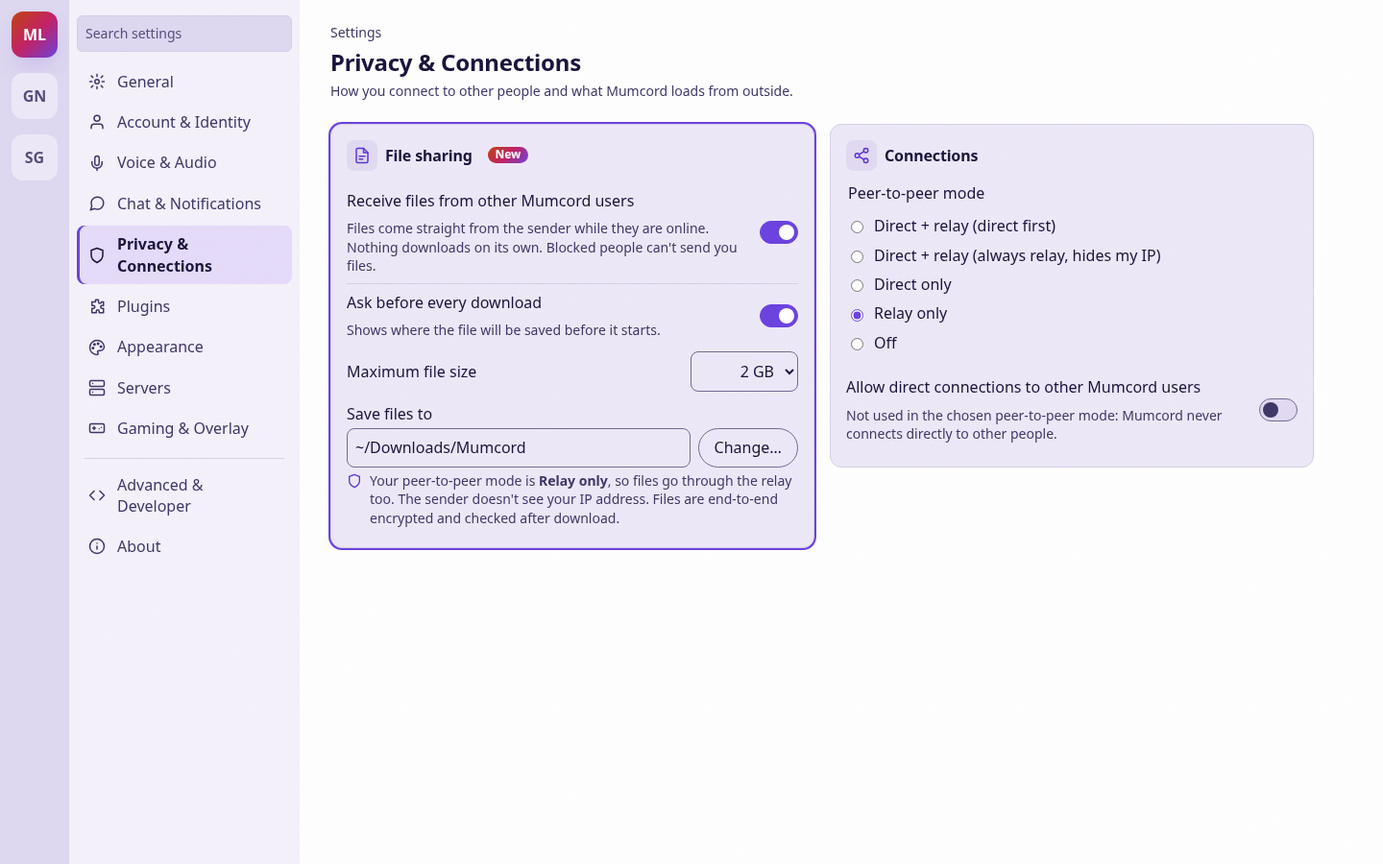
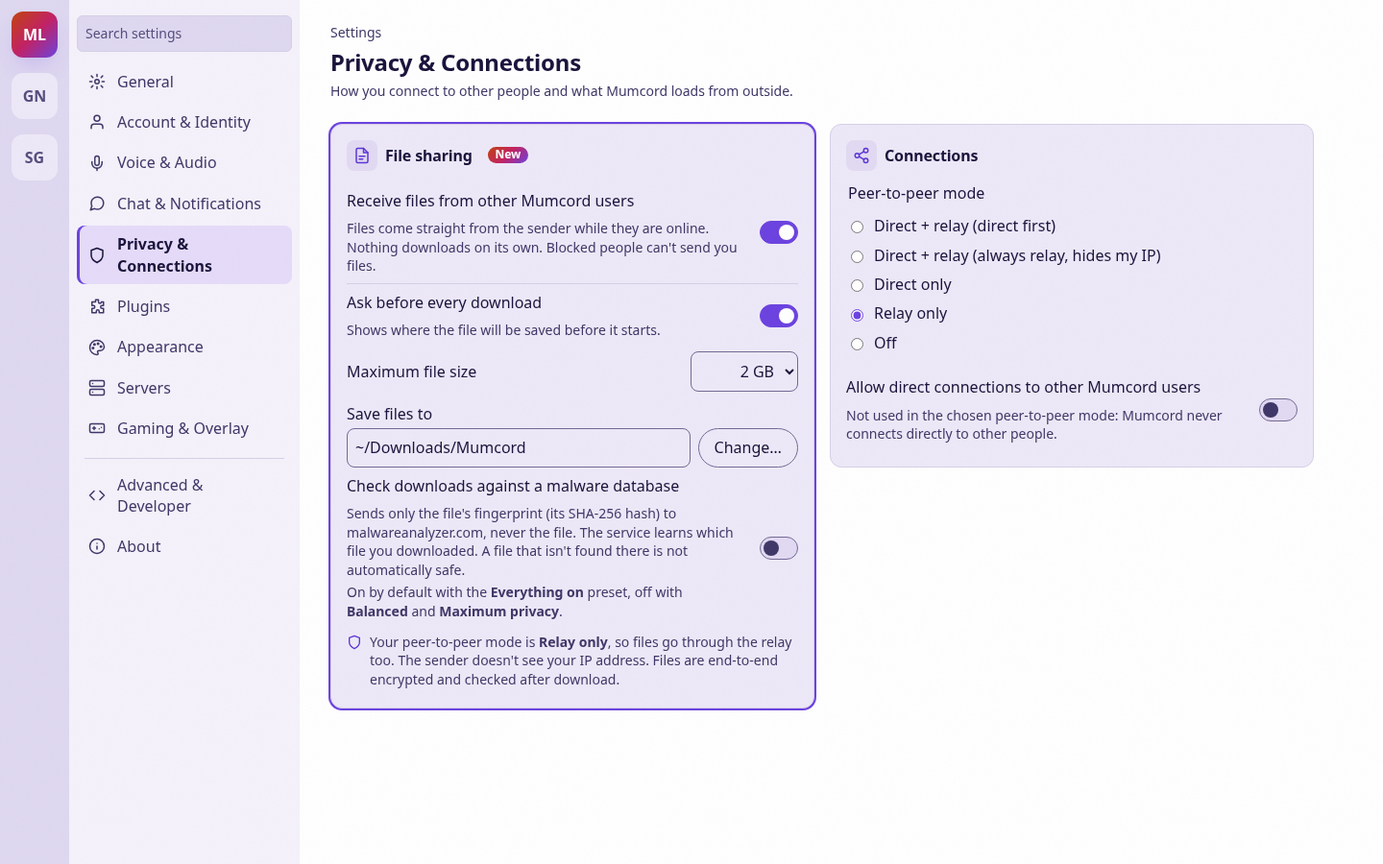
docs: add optional malware hash check to Epic 4.1 mockups
Settings gets a switch to look up a download's SHA-256 hash in a malware
database, off by default except with the Everything on preset. The done
card says "Not found in the malware database", and two new cards show
known malware (quarantined, Delete or Keep anyway) and an unavailable check.

Changed region(s): [[0.2188, 0.5289, 0.5938, 0.84]]

diff --git a/docs/mockups/epic-4.1/11-check-unavailable.html b/docs/mockups/epic-4.1/11-check-unavailable.html
@@ -1,0 +1,68 @@
+<!doctype html>
+<html lang="en" data-theme="dark">
+<head>
+<meta charset="utf-8">
+<meta name="viewport" content="width=device-width, initial-scale=1">
+<title>Malware check unavailable – Epic 4.1 mockup</title>
+<!-- Same fonts the app bundles via @fontsource (not installed for static mockups). -->
+<link rel="stylesheet" href="https://fonts.googleapis.com/css2?family=Bricolage+Grotesque:opsz,wght@12..96,200..800&family=Instrument+Sans:wght@400..700&display=swap">
+<link rel="stylesheet" href="../../../ui/src/theme/global.css">
+<link rel="stylesheet" href="../../../ui/src/app/shell.css">
+<link rel="stylesheet" href="../../../ui/src/features/app/app.css">
+<link rel="stylesheet" href="../../../ui/src/features/servers/servers.css">
+<link rel="stylesheet" href="../../../ui/src/features/channels/channels.css">
+<link rel="stylesheet" href="../../../ui/src/features/members/members.css">
+<link rel="stylesheet" href="../../../ui/src/features/chat/chat.css">
+<link rel="stylesheet" href="../../../ui/src/features/chat/mediaCards.css">
+<link rel="stylesheet" href="../../../ui/src/features/plugins/prompt/progress.css">
+<link rel="stylesheet" href="../../../ui/src/features/settings/settings.css">
+<link rel="stylesheet" href="mock.css">
+<!-- ?theme=light switches to the light theme, like the app's data-theme on <html>. -->
+<script>document.documentElement.dataset.theme = new URLSearchParams(location.search).get("theme") || "dark";</script>
+</head>
+<body class="">
+<div class="shell" style="--channels-width: 16.5rem; --members-column-width: 0px">
+  <nav class="shell__servers" aria-label="Servers"><div class="server-bar"><ul class="server-bar__list"><li class="server-bar__item" data-active><button class="server-bar__server mock-server mock-server--active" type="button" aria-label="Mumcord Lounge">ML</button></li><li class="server-bar__item"><button class="server-bar__server mock-server" type="button" aria-label="Game Night">GN</button></li><li class="server-bar__item"><button class="server-bar__server mock-server" type="button" aria-label="Study Group">SG</button></li></ul></div></nav>
+  <div class="shell__channel-column" aria-label="Channels">
+    <div class="mock-section"><h2 class="server-section__title"><span class="server-section__dot"></span><span class="server-section__name">Mumcord Lounge</span></h2></div>
+    <ul class="mock-tree"><li class="mock-channel"><div class="tree-channel__row"><span class="tree-channel__glyph"><span class="mock-hash">#</span></span><span class="tree-channel__label"><span class="tree-channel__name">Lobby</span></span></div></li><li class="mock-channel"><div class="tree-channel__row" data-here><span class="tree-channel__glyph"><svg viewBox="0 0 24 24" width="16" height="16" aria-hidden="true" fill="none" stroke="currentColor" stroke-width="2" stroke-linecap="round" stroke-linejoin="round"><path d="M11 5 6 9H2v6h4l5 4zM15.5 8.5a5 5 0 0 1 0 7"/></svg></span><span class="tree-channel__label"><span class="tree-channel__name">General</span></span></div><ul class="mock-people"><li class="tree-person mock-person"><span class="tree-person__row"><span class="avatar" data-size="sm" data-initial="A" style="--avatar-bg: var(--color-avatar-4)" aria-hidden="true"></span><span class="tree-person__name">Alice</span></span></li><li class="tree-person mock-person"><span class="tree-person__row"><span class="avatar" data-size="sm" data-initial="B" style="--avatar-bg: var(--color-avatar-8)" aria-hidden="true"></span><span class="tree-person__name">Bob <span class="tree-person__you">(you)</span></span></span></li><li class="tree-person mock-person"><span class="tree-person__row"><span class="avatar" data-size="sm" data-initial="C" style="--avatar-bg: var(--color-avatar-2)" aria-hidden="true"></span><span class="tree-person__name">Carol</span></span></li></ul></li><li class="mock-channel"><div class="tree-channel__row"><span class="tree-channel__glyph"><span class="mock-hash">#</span></span><span class="tree-channel__label"><span class="tree-channel__name">Music</span></span></div><ul class="mock-people"><li class="tree-person mock-person"><span class="tree-person__row"><span class="avatar" data-size="sm" data-initial="D" style="--avatar-bg: var(--color-avatar-6)" aria-hidden="true"></span><span class="tree-person__name">Dave</span></span></li></ul></li><li class="mock-channel"><div class="tree-channel__row"><span class="tree-channel__glyph"><span class="mock-hash">#</span></span><span class="tree-channel__label"><span class="tree-channel__name">AFK</span></span></div></li></ul>
+    <section class="shell__user-panel mock-userpanel" aria-label="You"><span class="avatar" data-size="md" data-initial="B" style="--avatar-bg: var(--color-avatar-8)" aria-hidden="true"></span><span><strong>Bob</strong><br><span class="mock-muted">In General</span></span></section>
+  </div>
+  <main class="shell__chat" aria-label="Chat">
+  <header class="chat-header"><h2 class="chat-header__title"><span class="chat-header__hash" aria-hidden="true">#</span>General</h2></header>
+  <div class="shell__chat-body">
+    <div class="chat-list-frame"><div class="chat-list"><ul class="chat-list__items"><li class="chat-message chat-message--start"><div class="chat-message__row">
+  <div class="chat-message__gutter"><span class="avatar" data-size="md" data-initial="C" style="--avatar-bg: var(--color-avatar-2)" aria-hidden="true"></span></div>
+  <div class="chat-message__content"><div class="chat-message__header"><span class="chat-message__sender">Carol</span><time class="chat-message__time">20:02</time></div>
+  <div class="chat-message__body"><p>Does anyone still have the slides from Thursday?</p></div></div></div></li><li class="chat-message chat-message--start"><div class="chat-message__row">
+  <div class="chat-message__gutter"><span class="avatar" data-size="md" data-initial="A" style="--avatar-bg: var(--color-avatar-4)" aria-hidden="true"></span></div>
+  <div class="chat-message__content"><div class="chat-message__header"><span class="chat-message__sender">Alice</span><time class="chat-message__time">20:03</time></div>
+  <div class="chat-message__body"><p>Yes, sharing them right now 👇</p></div></div></div></li><li class="chat-message"><div class="chat-message__row"><div class="chat-message__gutter"></div>
+  <div class="chat-message__content"><div class="chat-message__body"><div class="audio-card file-card" data-state="done" role="group" aria-label="File game-night-slides.pdf">
+  <div class="audio-card__head">
+    <span class="audio-card__icon"><svg viewBox="0 0 24 24" width="22" height="22" aria-hidden="true" fill="none" stroke="currentColor" stroke-width="2" stroke-linecap="round" stroke-linejoin="round"><path d="M14 2H6a2 2 0 0 0-2 2v16a2 2 0 0 0 2 2h12a2 2 0 0 0 2-2V8z"/><path d="M14 2v6h6M8 13h8M8 17h5"/></svg></span>
+    <div class="audio-card__text"><p class="audio-card__name">game-night-slides.pdf</p><p class="audio-card__facts">18.4 MB · PDF document</p></div>
+  </div>
+  
+  <p class="file-card__status"><span class="file-card__ok">✓ Downloaded and checked</span><span class="mock-muted">Saved to Downloads/Mumcord</span></p>
+  <p class="file-card__status file-card__scan file-card__scan--neutral"><svg viewBox="0 0 24 24" width="14" height="14" aria-hidden="true" fill="none" stroke="currentColor" stroke-width="2" stroke-linecap="round" stroke-linejoin="round"><circle cx="12" cy="12" r="10"/><path d="M12 16v-4M12 8h.01"/></svg><span>Malware check unavailable</span></p>
+  <p class="mock-muted">The service didn't answer or its daily limit is reached. The file was downloaded as usual.</p>
+  <div class="file-card__actions"><button type="button" class="media-pill file-card__button"><svg viewBox="0 0 24 24" width="16" height="16" aria-hidden="true" fill="none" stroke="currentColor" stroke-width="2" stroke-linecap="round" stroke-linejoin="round"><path d="M3 7a2 2 0 0 1 2-2h4l2 2h8a2 2 0 0 1 2 2v8a2 2 0 0 1-2 2H5a2 2 0 0 1-2-2z"/></svg><span>Open folder</span></button><button type="button" class="media-pill file-card__button"><svg viewBox="0 0 24 24" width="16" height="16" aria-hidden="true" fill="none" stroke="currentColor" stroke-width="2" stroke-linecap="round" stroke-linejoin="round"><path d="M14 2H6a2 2 0 0 0-2 2v16a2 2 0 0 0 2 2h12a2 2 0 0 0 2-2V8z"/><path d="M14 2v6h6M8 13h8M8 17h5"/></svg><span>Open</span></button></div>
+</div></div></div></div></li></ul></div></div>
+    <form class="chat-composer" aria-label="Message composer">
+  
+  <div class="chat-composer__row">
+    <div class="chat-apps"><button type="button" class="chat-composer__icon chat-apps__button" aria-label="Apps"><svg viewBox="0 0 24 24" width="18" height="18" aria-hidden="true" fill="none" stroke="currentColor" stroke-width="2" stroke-linecap="round" stroke-linejoin="round"><path d="M12 5v14M5 12h14"/></svg></button></div>
+    <button type="button" class="chat-composer__icon mock-new" aria-label="Attach a file" data-tooltip="Attach a file"><svg viewBox="0 0 24 24" width="18" height="18" aria-hidden="true" fill="none" stroke="currentColor" stroke-width="2" stroke-linecap="round" stroke-linejoin="round"><path d="m21.4 11.1-9.2 9.2a6 6 0 0 1-8.5-8.5l9.2-9.2a4 4 0 0 1 5.7 5.7l-9.2 9.2a2 2 0 0 1-2.8-2.8l8.5-8.5"/></svg></button>
+    <button type="button" class="chat-composer__icon" aria-label="Add image"><svg viewBox="0 0 24 24" width="18" height="18" aria-hidden="true" fill="none" stroke="currentColor" stroke-width="2" stroke-linecap="round" stroke-linejoin="round"><path d="M4 5h16v14H4zM4 16l5-5 4 4 3-3 4 4M15 9h.01"/></svg></button>
+    <button type="button" class="chat-composer__icon" aria-label="GIF"><svg viewBox="0 0 24 24" width="18" height="18" aria-hidden="true" fill="none" stroke="currentColor" stroke-width="2" stroke-linecap="round" stroke-linejoin="round"><rect x="3" y="6" width="18" height="12" rx="2"/><path d="M8 10.5h-1.5v3H8v-1.2M11.5 10v4M15 14v-4h2.2M15 12h1.6"/></svg></button>
+    <textarea class="chat-composer__input" rows="1" aria-label="Message #General" placeholder="Message #General"></textarea>
+    <button type="submit" class="chat-composer__icon" aria-label="Send"><svg viewBox="0 0 24 24" width="18" height="18" aria-hidden="true" fill="none" stroke="currentColor" stroke-width="2" stroke-linecap="round" stroke-linejoin="round"><path d="M4 12l16-8-6 16-2-7z"/></svg></button>
+  </div>
+</form>
+  </div>
+  
+</main>
+</div>
+</body>
+</html>

diff --git a/docs/mockups/epic-4.1/10-malware-found.html b/docs/mockups/epic-4.1/10-malware-found.html
@@ -1,0 +1,67 @@
+<!doctype html>
+<html lang="en" data-theme="dark">
+<head>
+<meta charset="utf-8">
+<meta name="viewport" content="width=device-width, initial-scale=1">
+<title>Malware found – Epic 4.1 mockup</title>
+<!-- Same fonts the app bundles via @fontsource (not installed for static mockups). -->
+<link rel="stylesheet" href="https://fonts.googleapis.com/css2?family=Bricolage+Grotesque:opsz,wght@12..96,200..800&family=Instrument+Sans:wght@400..700&display=swap">
+<link rel="stylesheet" href="../../../ui/src/theme/global.css">
+<link rel="stylesheet" href="../../../ui/src/app/shell.css">
+<link rel="stylesheet" href="../../../ui/src/features/app/app.css">
+<link rel="stylesheet" href="../../../ui/src/features/servers/servers.css">
+<link rel="stylesheet" href="../../../ui/src/features/channels/channels.css">
+<link rel="stylesheet" href="../../../ui/src/features/members/members.css">
+<link rel="stylesheet" href="../../../ui/src/features/chat/chat.css">
+<link rel="stylesheet" href="../../../ui/src/features/chat/mediaCards.css">
+<link rel="stylesheet" href="../../../ui/src/features/plugins/prompt/progress.css">
+<link rel="stylesheet" href="../../../ui/src/features/settings/settings.css">
+<link rel="stylesheet" href="mock.css">
+<!-- ?theme=light switches to the light theme, like the app's data-theme on <html>. -->
+<script>document.documentElement.dataset.theme = new URLSearchParams(location.search).get("theme") || "dark";</script>
+</head>
+<body class="">
+<div class="shell" style="--channels-width: 16.5rem; --members-column-width: 0px">
+  <nav class="shell__servers" aria-label="Servers"><div class="server-bar"><ul class="server-bar__list"><li class="server-bar__item" data-active><button class="server-bar__server mock-server mock-server--active" type="button" aria-label="Mumcord Lounge">ML</button></li><li class="server-bar__item"><button class="server-bar__server mock-server" type="button" aria-label="Game Night">GN</button></li><li class="server-bar__item"><button class="server-bar__server mock-server" type="button" aria-label="Study Group">SG</button></li></ul></div></nav>
+  <div class="shell__channel-column" aria-label="Channels">
+    <div class="mock-section"><h2 class="server-section__title"><span class="server-section__dot"></span><span class="server-section__name">Mumcord Lounge</span></h2></div>
+    <ul class="mock-tree"><li class="mock-channel"><div class="tree-channel__row"><span class="tree-channel__glyph"><span class="mock-hash">#</span></span><span class="tree-channel__label"><span class="tree-channel__name">Lobby</span></span></div></li><li class="mock-channel"><div class="tree-channel__row" data-here><span class="tree-channel__glyph"><svg viewBox="0 0 24 24" width="16" height="16" aria-hidden="true" fill="none" stroke="currentColor" stroke-width="2" stroke-linecap="round" stroke-linejoin="round"><path d="M11 5 6 9H2v6h4l5 4zM15.5 8.5a5 5 0 0 1 0 7"/></svg></span><span class="tree-channel__label"><span class="tree-channel__name">General</span></span></div><ul class="mock-people"><li class="tree-person mock-person"><span class="tree-person__row"><span class="avatar" data-size="sm" data-initial="A" style="--avatar-bg: var(--color-avatar-4)" aria-hidden="true"></span><span class="tree-person__name">Alice</span></span></li><li class="tree-person mock-person"><span class="tree-person__row"><span class="avatar" data-size="sm" data-initial="B" style="--avatar-bg: var(--color-avatar-8)" aria-hidden="true"></span><span class="tree-person__name">Bob <span class="tree-person__you">(you)</span></span></span></li><li class="tree-person mock-person"><span class="tree-person__row"><span class="avatar" data-size="sm" data-initial="C" style="--avatar-bg: var(--color-avatar-2)" aria-hidden="true"></span><span class="tree-person__name">Carol</span></span></li></ul></li><li class="mock-channel"><div class="tree-channel__row"><span class="tree-channel__glyph"><span class="mock-hash">#</span></span><span class="tree-channel__label"><span class="tree-channel__name">Music</span></span></div><ul class="mock-people"><li class="tree-person mock-person"><span class="tree-person__row"><span class="avatar" data-size="sm" data-initial="D" style="--avatar-bg: var(--color-avatar-6)" aria-hidden="true"></span><span class="tree-person__name">Dave</span></span></li></ul></li><li class="mock-channel"><div class="tree-channel__row"><span class="tree-channel__glyph"><span class="mock-hash">#</span></span><span class="tree-channel__label"><span class="tree-channel__name">AFK</span></span></div></li></ul>
+    <section class="shell__user-panel mock-userpanel" aria-label="You"><span class="avatar" data-size="md" data-initial="B" style="--avatar-bg: var(--color-avatar-8)" aria-hidden="true"></span><span><strong>Bob</strong><br><span class="mock-muted">In General</span></span></section>
+  </div>
+  <main class="shell__chat" aria-label="Chat">
+  <header class="chat-header"><h2 class="chat-header__title"><span class="chat-header__hash" aria-hidden="true">#</span>General</h2></header>
+  <div class="shell__chat-body">
+    <div class="chat-list-frame"><div class="chat-list"><ul class="chat-list__items"><li class="chat-message chat-message--start"><div class="chat-message__row">
+  <div class="chat-message__gutter"><span class="avatar" data-size="md" data-initial="C" style="--avatar-bg: var(--color-avatar-2)" aria-hidden="true"></span></div>
+  <div class="chat-message__content"><div class="chat-message__header"><span class="chat-message__sender">Carol</span><time class="chat-message__time">20:02</time></div>
+  <div class="chat-message__body"><p>Does anyone still have the slides from Thursday?</p></div></div></div></li><li class="chat-message chat-message--start"><div class="chat-message__row">
+  <div class="chat-message__gutter"><span class="avatar" data-size="md" data-initial="A" style="--avatar-bg: var(--color-avatar-4)" aria-hidden="true"></span></div>
+  <div class="chat-message__content"><div class="chat-message__header"><span class="chat-message__sender">Alice</span><time class="chat-message__time">20:03</time></div>
+  <div class="chat-message__body"><p>Yes, sharing them right now 👇</p></div></div></div></li><li class="chat-message"><div class="chat-message__row"><div class="chat-message__gutter"></div>
+  <div class="chat-message__content"><div class="chat-message__body"><div class="audio-card file-card" data-state="malware" role="group" aria-label="File game-night-slides.pdf, known malware">
+  <div class="audio-card__head">
+    <span class="audio-card__icon"><svg viewBox="0 0 24 24" width="22" height="22" aria-hidden="true" fill="none" stroke="currentColor" stroke-width="2" stroke-linecap="round" stroke-linejoin="round"><path d="M14 2H6a2 2 0 0 0-2 2v16a2 2 0 0 0 2 2h12a2 2 0 0 0 2-2V8z"/><path d="M14 2v6h6M8 13h8M8 17h5"/></svg></span>
+    <div class="audio-card__text"><p class="audio-card__name">game-night-slides.pdf</p><p class="audio-card__facts">18.4 MB · PDF document</p></div>
+  </div>
+  
+  <div class="malware-alert" role="alert"><span class="malware-alert__icon"><svg viewBox="0 0 24 24" width="22" height="22" aria-hidden="true" fill="none" stroke="currentColor" stroke-width="2" stroke-linecap="round" stroke-linejoin="round"><path d="M10.3 3.9 1.8 18a2 2 0 0 0 1.7 3h17a2 2 0 0 0 1.7-3L13.7 3.9a2 2 0 0 0-3.4 0zM12 9v4M12 17h.01"/></svg></span><div><p class="malware-alert__title">Known malware – this file was not opened</p><p>The malware database knows this exact file as harmful. Mumcord moved it to quarantine, so it can't run. Delete it unless you are sure you need it.</p></div></div>
+  <div class="file-card__actions"><button type="button" class="button button--primary file-card__button file-card__button--delete"><svg viewBox="0 0 24 24" width="16" height="16" aria-hidden="true" fill="none" stroke="currentColor" stroke-width="2" stroke-linecap="round" stroke-linejoin="round"><path d="M3 6h18M8 6V4h8v2M6 6l1 14h10l1-14"/></svg><span>Delete</span></button><button type="button" class="media-pill file-card__button file-card__button--danger"><span>Keep anyway…</span></button><span class="mock-muted">Keeping it asks you to confirm first.</span></div>
+</div>
+</div></div></div></div></li></ul></div></div>
+    <form class="chat-composer" aria-label="Message composer">
+  
+  <div class="chat-composer__row">
+    <div class="chat-apps"><button type="button" class="chat-composer__icon chat-apps__button" aria-label="Apps"><svg viewBox="0 0 24 24" width="18" height="18" aria-hidden="true" fill="none" stroke="currentColor" stroke-width="2" stroke-linecap="round" stroke-linejoin="round"><path d="M12 5v14M5 12h14"/></svg></button></div>
+    <button type="button" class="chat-composer__icon mock-new" aria-label="Attach a file" data-tooltip="Attach a file"><svg viewBox="0 0 24 24" width="18" height="18" aria-hidden="true" fill="none" stroke="currentColor" stroke-width="2" stroke-linecap="round" stroke-linejoin="round"><path d="m21.4 11.1-9.2 9.2a6 6 0 0 1-8.5-8.5l9.2-9.2a4 4 0 0 1 5.7 5.7l-9.2 9.2a2 2 0 0 1-2.8-2.8l8.5-8.5"/></svg></button>
+    <button type="button" class="chat-composer__icon" aria-label="Add image"><svg viewBox="0 0 24 24" width="18" height="18" aria-hidden="true" fill="none" stroke="currentColor" stroke-width="2" stroke-linecap="round" stroke-linejoin="round"><path d="M4 5h16v14H4zM4 16l5-5 4 4 3-3 4 4M15 9h.01"/></svg></button>
+    <button type="button" class="chat-composer__icon" aria-label="GIF"><svg viewBox="0 0 24 24" width="18" height="18" aria-hidden="true" fill="none" stroke="currentColor" stroke-width="2" stroke-linecap="round" stroke-linejoin="round"><rect x="3" y="6" width="18" height="12" rx="2"/><path d="M8 10.5h-1.5v3H8v-1.2M11.5 10v4M15 14v-4h2.2M15 12h1.6"/></svg></button>
+    <textarea class="chat-composer__input" rows="1" aria-label="Message #General" placeholder="Message #General"></textarea>
+    <button type="submit" class="chat-composer__icon" aria-label="Send"><svg viewBox="0 0 24 24" width="18" height="18" aria-hidden="true" fill="none" stroke="currentColor" stroke-width="2" stroke-linecap="round" stroke-linejoin="round"><path d="M4 12l16-8-6 16-2-7z"/></svg></button>
+  </div>
+</form>
+  </div>
+  
+</main>
+</div>
+</body>
+</html>

diff --git a/docs/mockups/epic-4.1/08-settings-file-sharing.html b/docs/mockups/epic-4.1/08-settings-file-sharing.html
@@ -41,6 +41,7 @@
   <select id="max" class="settings-input settings-input--compact"><option>2 GB</option></select></div>
 <label class="settings-field" for="folder">Save files to</label>
 <div class="mock-folder"><input id="folder" class="settings-input" value="~/Downloads/Mumcord" readonly><button type="button" class="settings-button">Change…</button></div>
+<div class="settings-switch"><div class="settings-switch__text"><label>Check downloads against a malware database</label><p class="settings-switch__status settings-hint">Sends only the file's fingerprint (its SHA-256 hash) to malwareanalyzer.com, never the file. The service learns which file you downloaded. A file that isn't found there is not automatically safe.<span class="mock-switch-default">On by default with the <strong>Everything on</strong> preset, off with <strong>Balanced</strong> and <strong>Maximum privacy</strong>.</span></p></div><input type="checkbox" role="switch" class="settings-switch__input" aria-label="Check downloads against a malware database"></div>
 <p class="settings-hint mock-relay-note"><svg viewBox="0 0 24 24" width="16" height="16" aria-hidden="true" fill="none" stroke="currentColor" stroke-width="2" stroke-linecap="round" stroke-linejoin="round"><path d="M12 22s8-4 8-10V5l-8-3-8 3v7c0 6 8 10 8 10z"/></svg><span>Your peer-to-peer mode is <strong>Relay only</strong>, so files go through the relay too. The sender doesn't see your IP address. Files are end-to-end encrypted and checked after download.</span></p>
 </section><section class="settings-group"><div class="settings-group__head"><span class="settings-group__icon"><svg class="settings-icon" viewBox="0 0 24 24" width="18" height="18" fill="none" stroke="currentColor" stroke-width="2" stroke-linecap="round" stroke-linejoin="round" aria-hidden="true"><circle cx="18" cy="5" r="3"/><circle cx="6" cy="12" r="3"/><circle cx="18" cy="19" r="3"/><path d="m8.6 13.5 6.8 4M15.4 6.5l-6.8 4"/></svg></span><h3 class="settings-group__title">Connections</h3></div><fieldset class="settings-radios"><legend class="settings-radios__legend"><span>Peer-to-peer mode</span></legend><div class="settings-radios__row"><label class="settings-radios__option"><input type="radio" name="p2p"> Direct + relay (direct first)</label></div><div class="settings-radios__row"><label class="settings-radios__option"><input type="radio" name="p2p"> Direct + relay (always relay, hides my IP)</label></div><div class="settings-radios__row"><label class="settings-radios__option"><input type="radio" name="p2p"> Direct only</label></div><div class="settings-radios__row"><label class="settings-radios__option"><input type="radio" name="p2p" checked> Relay only</label></div><div class="settings-radios__row"><label class="settings-radios__option"><input type="radio" name="p2p"> Off</label></div></fieldset><div class="settings-switch"><div class="settings-switch__text"><label>Allow direct connections to other Mumcord users</label><p class="settings-switch__status settings-hint">Not used in the chosen peer-to-peer mode: Mumcord never connects directly to other people.</p></div><input type="checkbox" role="switch" class="settings-switch__input" aria-label="Allow direct connections to other Mumcord users"></div></section></div>
   </div>

diff --git a/docs/mockups/epic-4.1/mock.css b/docs/mockups/epic-4.1/mock.css
@@ -90,3 +90,16 @@ body { overflow: hidden; }
 :root[data-theme="dark"] .plain-log__caption { color: #999; }
 .plain-log__time { color: #777; }
 .plain-log__line { padding: 0.25rem 0.375rem; outline: 2px dashed #c21f62; outline-offset: 2px; }
+
+/* --- Optional malware hash check: result lines and the known-malware alert ----------------- */
+.file-card__scan svg { flex: none; color: var(--color-accent-text); }
+.file-card__scan--neutral svg { color: var(--color-text-muted); }
+.file-card[data-state="malware"] { border-left-color: var(--color-danger); }
+.file-card[data-state="malware"] .audio-card__icon { color: var(--color-danger); }
+.malware-alert { display: flex; gap: var(--space-3); align-items: flex-start; padding: var(--space-3); border: 1px solid var(--color-danger); border-radius: var(--radius-sm); background: color-mix(in srgb, var(--color-danger) 14%, transparent); font-size: var(--font-size-sm); }
+.malware-alert__icon { display: grid; flex: none; place-items: center; width: 2.25rem; height: 2.25rem; border-radius: 50%; background: var(--color-danger); color: #fff; }
+.malware-alert__title { margin-bottom: var(--space-1) !important; color: var(--color-danger); font-size: var(--font-size-md, 1rem); font-weight: var(--font-weight-bold); }
+.file-card__button--delete { background: var(--color-danger); border-color: var(--color-danger); color: #fff; }
+.mock-switch-default { display: block; margin-top: var(--space-1); }
+/* The dark theme's danger red is light, so white text on it would be hard to read. */
+:root[data-theme="dark"] .file-card__button--delete, :root[data-theme="dark"] .malware-alert__icon { color: #2a0a14; }

diff --git a/docs/mockups/epic-4.1/04-done.html b/docs/mockups/epic-4.1/04-done.html
@@ -45,6 +45,7 @@
   </div>
   
   <p class="file-card__status"><span class="file-card__ok">✓ Downloaded and checked</span><span class="mock-muted">Saved to Downloads/Mumcord</span></p>
+  <p class="file-card__status file-card__scan"><svg viewBox="0 0 24 24" width="14" height="14" aria-hidden="true" fill="none" stroke="currentColor" stroke-width="2" stroke-linecap="round" stroke-linejoin="round"><path d="M12 22s8-4 8-10V5l-8-3-8 3v7c0 6 8 10 8 10z"/></svg><span>Not found in the malware database (malwareanalyzer.com)</span></p>
   <div class="file-card__actions"><button type="button" class="media-pill file-card__button"><svg viewBox="0 0 24 24" width="16" height="16" aria-hidden="true" fill="none" stroke="currentColor" stroke-width="2" stroke-linecap="round" stroke-linejoin="round"><path d="M3 7a2 2 0 0 1 2-2h4l2 2h8a2 2 0 0 1 2 2v8a2 2 0 0 1-2 2H5a2 2 0 0 1-2-2z"/></svg><span>Open folder</span></button><button type="button" class="media-pill file-card__button"><svg viewBox="0 0 24 24" width="16" height="16" aria-hidden="true" fill="none" stroke="currentColor" stroke-width="2" stroke-linecap="round" stroke-linejoin="round"><path d="M14 2H6a2 2 0 0 0-2 2v16a2 2 0 0 0 2 2h12a2 2 0 0 0 2-2V8z"/><path d="M14 2v6h6M8 13h8M8 17h5"/></svg><span>Open</span></button></div>
 </div></div></div></div></li></ul></div></div>
     <form class="chat-composer" aria-label="Message composer">
